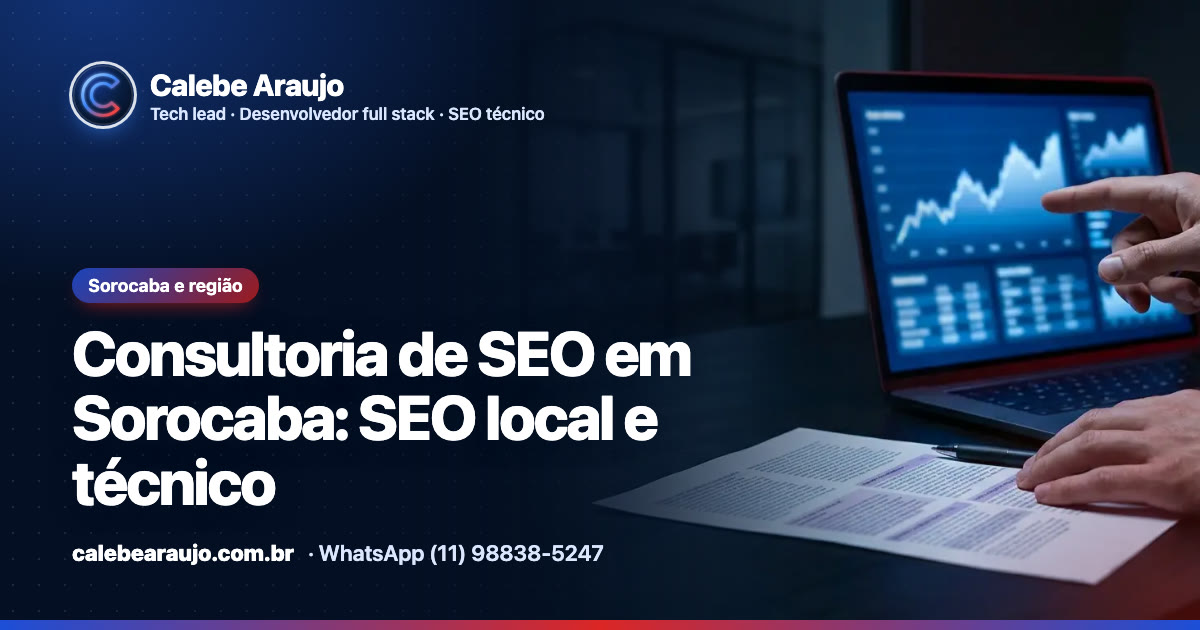
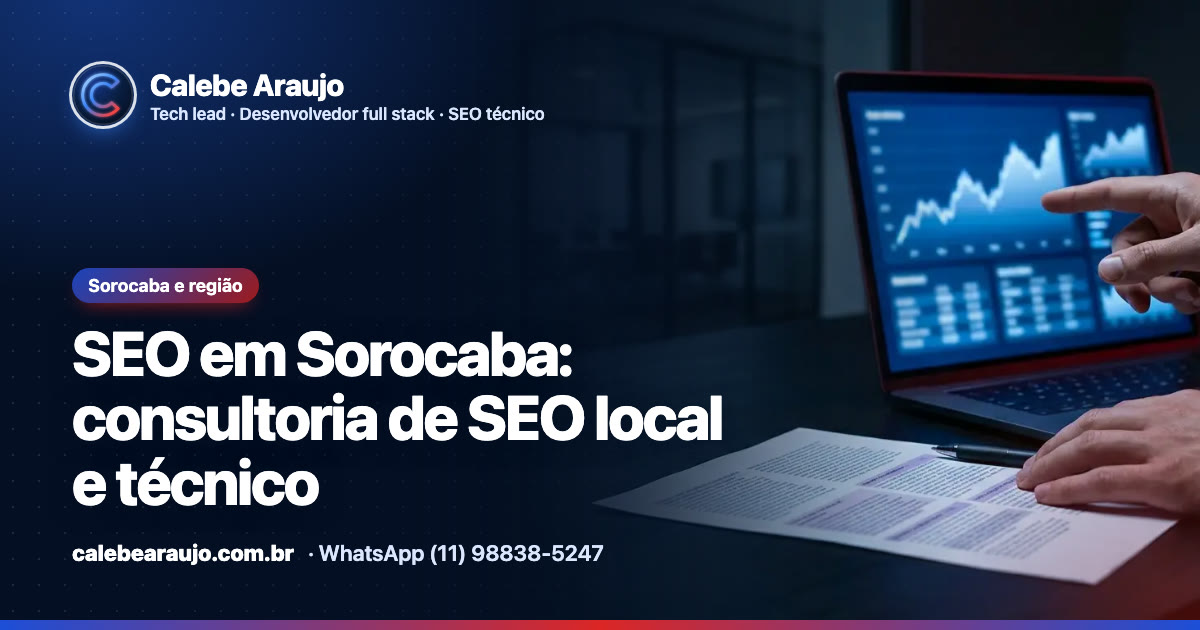
seo: align titles and H1s with real search demand on three pages
- /consultoria-seo-sorocaba: "SEO em Sorocaba: consultoria de SEO local e técnico",
  Google Meu Negócio in the local SEO heading and in the meta description
- /seo-para-b2b: "SEO B2B: consultoria para gerar leads de empresas B2B"
- /consultoria-seo: "Consultoria de SEO técnico: consultor SEO para empresas"
- share cards regenerated for the three pages; UPDATED moved to 2026-10-29

Based on Keyword Planner volumes and the queries these pages' former equivalents on
the network captured in Search Console (estudos/plano-conteudo-linkedin-2026-10-29.md).

Changed region(s): [[0.0617, 0.5127, 0.6167, 0.8143]]

diff --git a/src/routes/seo-para-b2b/+page.svelte b/src/routes/seo-para-b2b/+page.svelte
@@ -10,9 +10,9 @@
 	import { services, type WhatsApp } from '$lib/site';
 
 	const path = services.seoB2b.path;
-	const title = 'SEO para B2B: geração de leads pela busca orgânica - Calebe Araujo';
+	const title = 'SEO B2B: consultoria para gerar leads de empresas B2B - Calebe Araujo';
 	const description =
-		'SEO para empresas B2B: páginas por solução e por segmento, cauda longa comercial e leads medidos no CRM. Experiência com rede de sites de telecom.';
+		'SEO B2B para quem vende para empresas: páginas por solução e segmento, cauda longa comercial e leads medidos no CRM, com quem implementa no código.';
 	const whatsapp: WhatsApp = {
 		message: 'Olá, Calebe! Vim pela página de SEO para B2B e quero gerar mais leads para a minha empresa.',
 		label: 'Falar sobre SEO B2B pelo WhatsApp'
@@ -65,17 +65,17 @@
 		<HeroMidia foto="seo-b2b" />
 		<Breadcrumbs {crumbs} />
 
-		<h1>SEO para B2B: geração de leads pela busca orgânica</h1>
+		<h1>SEO B2B: consultoria para gerar leads de empresas B2B</h1>
 
 		<p>
-			SEO para B2B é a estratégia de busca orgânica de empresas que vendem para outras empresas: na
+			SEO B2B, ou SEO para B2B, é a estratégia de busca orgânica de empresas que vendem para outras empresas: na
 			prática, a forma de divulgar a sua empresa para outras empresas pelo Google, aparecendo quando um
 			comprador pesquisa o que você vende. O ciclo de vendas é mais longo, envolve vários tomadores de decisão e começa com pesquisas específicas,
 			muitas vezes com pouco volume. Por isso o foco não é atrair muitas visitas, e sim aparecer para quem
 			está comparando fornecedores e transformar essa visita em um lead registrado no CRM.
 		</p>
 		<p>
-			Na consultoria de SEO B2B, estruturo as páginas, corrijo a parte técnica do site e ligo cada
+			Na consultoria de SEO para empresas B2B, estruturo as páginas, corrijo a parte técnica do site e ligo cada
 			formulário ao CRM, para que a empresa saiba quais buscas geram oportunidades de venda.
 		</p>
 

diff --git a/src/routes/consultoria-seo-sorocaba/+page.svelte b/src/routes/consultoria-seo-sorocaba/+page.svelte
@@ -10,9 +10,9 @@
 	import { guides, regionPage, services, type WhatsApp } from '$lib/site';
 
 	const path = '/consultoria-seo-sorocaba';
-	const title = 'Consultoria de SEO em Sorocaba: SEO local e técnico - Calebe Araujo';
+	const title = 'SEO em Sorocaba: consultoria de SEO local e técnico - Calebe Araujo';
 	const description =
-		'Consultoria de SEO em Sorocaba (SP): SEO técnico, SEO local e Perfil da Empresa no Google com um consultor que também desenvolve e corrige o site.';
+		'SEO em Sorocaba: consultoria de SEO local e técnico, Google Meu Negócio e site corrigido no código por um consultor que atende a cidade e a região.';
 	const whatsapp: WhatsApp = {
 		message: 'Olá, Calebe! Sou de Sorocaba e quero melhorar o SEO do meu site. Meu site é: ',
 		label: 'Falar sobre SEO em Sorocaba pelo WhatsApp'
@@ -68,7 +68,7 @@
 		<HeroMidia foto="consultoria-seo" />
 		<Breadcrumbs {crumbs} />
 
-		<h1>Consultoria de SEO em Sorocaba: SEO local e técnico</h1>
+		<h1>SEO em Sorocaba: consultoria de SEO local e técnico</h1>
 
 		<p>
 			Como consultor de SEO em Sorocaba, ajudo empresas da cidade e de Votorantim a aparecer melhor no
@@ -102,7 +102,7 @@
 	</section>
 
 	<section aria-labelledby="ordem-titulo">
-		<h2 id="ordem-titulo">SEO local: o que fazer primeiro</h2>
+		<h2 id="ordem-titulo">SEO local e Google Meu Negócio em Sorocaba: o que fazer primeiro</h2>
 		<ol>
 			<li><strong>Perfil da Empresa no Google completo:</strong> categoria principal correta, serviços, área de atendimento, fotos e horários.</li>
 			<li><strong>Dados idênticos em todo lugar:</strong> nome, endereço e telefone iguais no site, no perfil e nos diretórios.</li>

diff --git a/src/routes/consultoria-seo/+page.svelte b/src/routes/consultoria-seo/+page.svelte
@@ -10,9 +10,9 @@
 	import { guides, services, type WhatsApp } from '$lib/site';
 
 	const path = services.consultoriaSeo.path;
-	const title = 'Consultoria de SEO técnico para empresas - Calebe Araujo';
+	const title = 'Consultoria de SEO técnico: consultor SEO para empresas - Calebe Araujo';
 	const description =
-		'Consultoria de SEO técnico para empresas: diagnóstico, plano priorizado e correções no código para o seu site ser indexado e gerar contatos.';
+		'Consultoria de SEO técnico para empresas: diagnóstico, plano priorizado e correções no código por um especialista em SEO, para o site gerar contatos.';
 	const whatsapp: WhatsApp = {
 		message: 'Olá, Calebe! Vim pela página de consultoria de SEO. Meu site é: ',
 		label: 'Pedir uma análise do meu site pelo WhatsApp'
@@ -65,7 +65,7 @@
 		<HeroMidia foto="consultoria-seo" />
 		<Breadcrumbs {crumbs} />
 
-		<h1>Consultoria de SEO técnico para empresas</h1>
+		<h1>Consultoria de SEO técnico: consultor SEO para empresas</h1>
 
 		<p>
 			Consultoria de SEO técnico é o trabalho de encontrar e corrigir o que impede um site de aparecer

diff --git a/src/lib/site.ts b/src/lib/site.ts
@@ -4,7 +4,7 @@
 export const SITE_URL = 'https://calebearaujo.com.br';
 
 // Data da última revisão do conteúdo (lastmod do sitemap e "atualizado em" das páginas)
-export const UPDATED = '2026-10-28';
+export const UPDATED = '2026-10-29';
 
 // Datas completas (ISO 8601 com fuso de Brasília), formato que o Google pede nos dados estruturados
 const HORARIO = 'T09:00:00-03:00';
